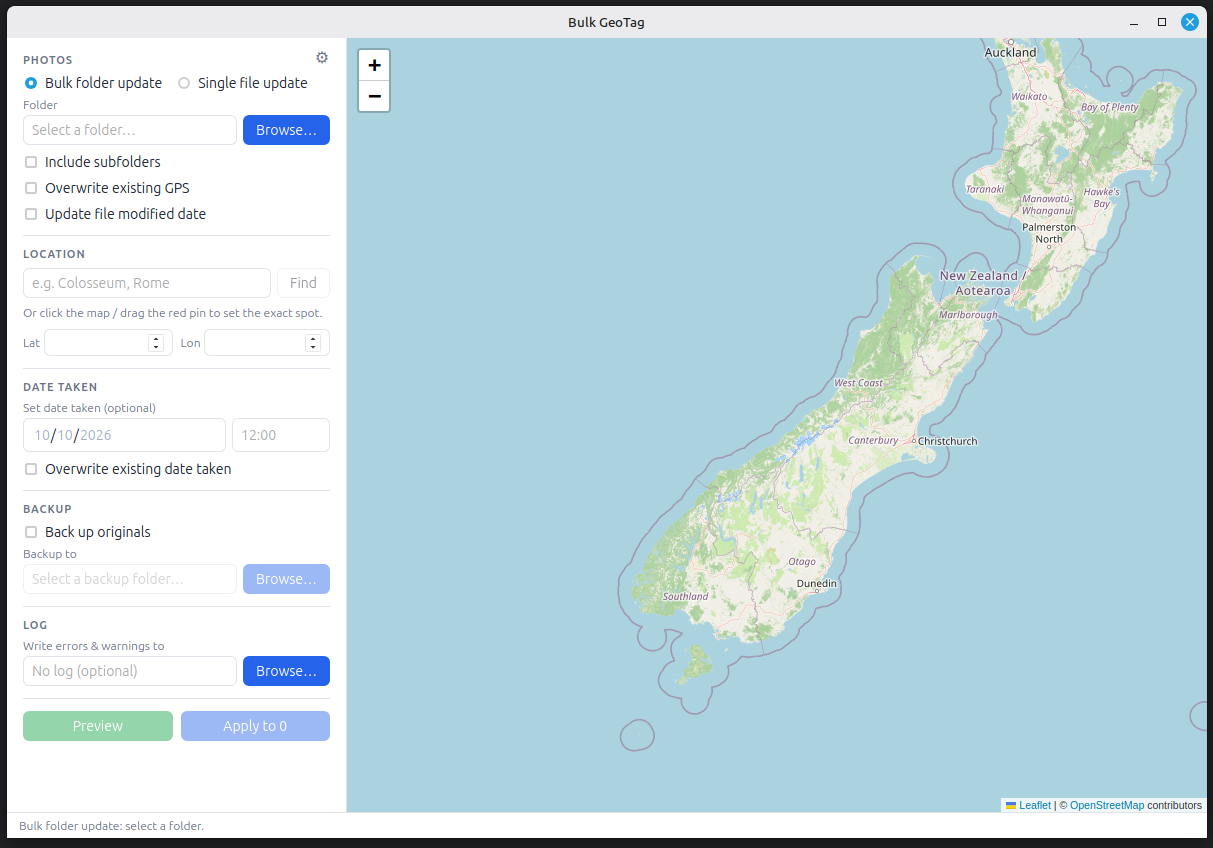
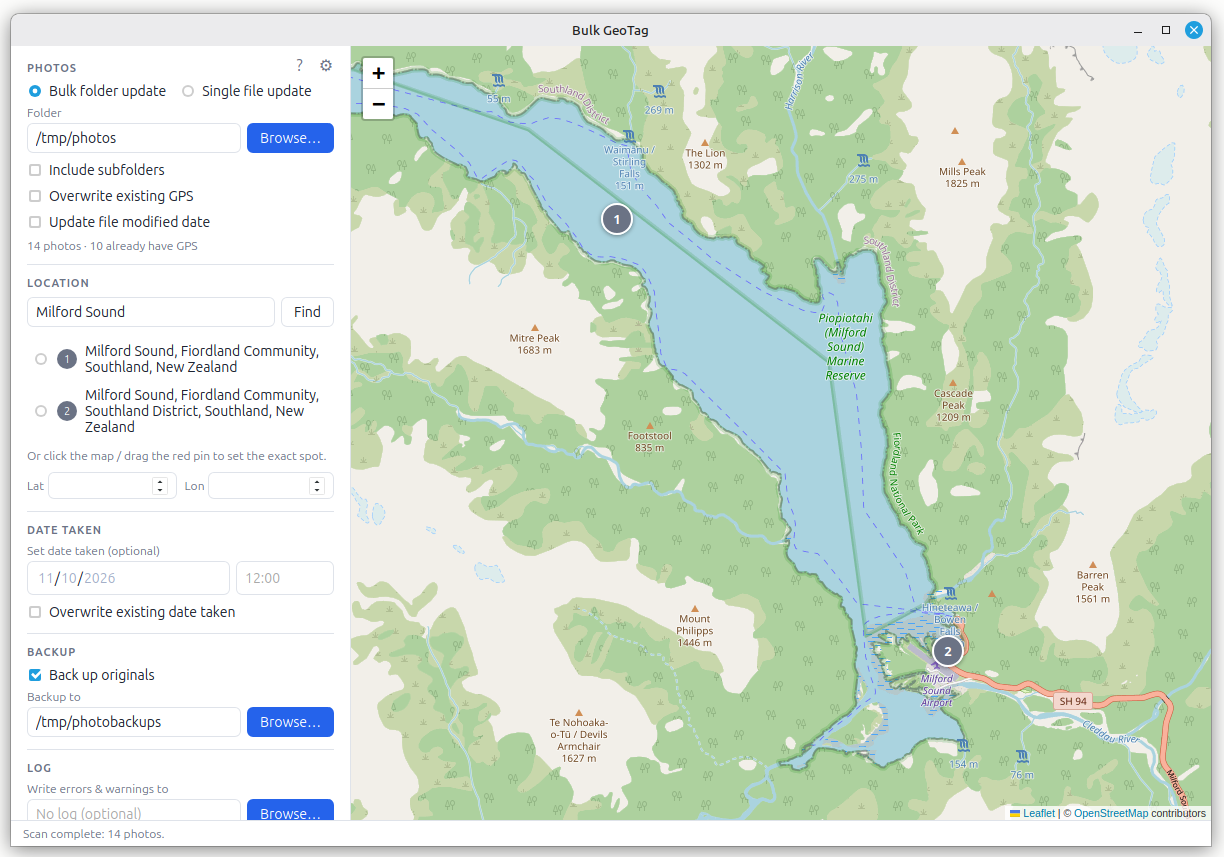
In-app help: User Guide inside the app (? button, F1), works offline
- Guide and its pictures built into the app (Vite ?raw / import.meta.glob)
- Screenshot replaces the text diagram in the User Guide; README screenshot updated
- npm run check:guide: Contents links and images
- CHANGELOG 1.3.0, README, ARCHITECTURE

diff --git a/src/routes/+page.svelte b/src/routes/+page.svelte
@@ -1,9 +1,13 @@
 <script lang="ts">
-  import { onMount, untrack } from "svelte";
+  import { onMount, untrack, tick } from "svelte";
   import { invoke } from "@tauri-apps/api/core";
   import { open, ask } from "@tauri-apps/plugin-dialog";
   import { listen } from "@tauri-apps/api/event";
-  import { revealItemInDir } from "@tauri-apps/plugin-opener";
+  import { revealItemInDir, openUrl } from "@tauri-apps/plugin-opener";
+  import { getVersion } from "@tauri-apps/api/app";
+  import { Marked } from "marked";
+  import { gfmHeadingId } from "marked-gfm-heading-id";
+  import guideMd from "../../docs/USER_GUIDE.md?raw";
   import "leaflet/dist/leaflet.css";
   import type { Map as LMap, Marker } from "leaflet";
 
@@ -598,17 +602,82 @@
     }
   }
 
+  // ---------- ? Help: the User Guide, built into the app so it works offline ----------
+  const REPO_URL = "https://github.com/ZuluPilgrim/bulk-geotag";
+  /** Pictures in docs/images/, built into the app so the guide's images also show offline. */
+  const guideImages = import.meta.glob("../../docs/images/*.{png,jpg,jpeg,webp}", {
+    eager: true,
+    query: "?url",
+    import: "default",
+  }) as Record<string, string>;
+  /**
+   * docs/USER_GUIDE.md as HTML. Headings get GitHub-style ids so the Contents links work, and
+   * image links like images/screenshot.png are pointed at the built-in copies above.
+   */
+  const guideHtml = new Marked(gfmHeadingId(), {
+    walkTokens(token) {
+      if (token.type === "image" && !/^https?:/.test(token.href)) {
+        token.href = guideImages[`../../docs/${token.href}`] ?? token.href;
+      }
+    },
+  }).parse(guideMd, { async: false }) as string;
+
+  let helpOpen = $state(false);
+  let helpBody = $state<HTMLElement | null>(null);
+  let appVersion = $state("");
+
+  /** Open Help at the top, or at one section's heading id (e.g. "file-dates-and-sync-tools"). */
+  async function openHelp(anchor?: string) {
+    helpOpen = true;
+    if (!appVersion) appVersion = await getVersion().catch(() => "");
+    await tick();
+    const target = anchor ? helpBody?.querySelector(`#${CSS.escape(anchor)}`) : null;
+    if (target) target.scrollIntoView();
+    else helpBody?.scrollTo(0, 0);
+  }
+
+  /** Links inside the guide: #anchors scroll within Help; anything else opens in the system browser. */
+  function onHelpClick(e: MouseEvent) {
+    const a = (e.target as HTMLElement).closest("a");
+    if (!a) return;
+    e.preventDefault();
+    const href = a.getAttribute("href") ?? "";
+    if (href.startsWith("#")) {
+      helpBody
+        ?.querySelector(`#${CSS.escape(decodeURIComponent(href.slice(1)))}`)
+        ?.scrollIntoView({ behavior: "smooth", block: "start" });
+    } else {
+      // Relative links (e.g. ARCHITECTURE.md) point at the docs folder on GitHub.
+      const url = /^(https?:|mailto:)/.test(href) ? href : `${REPO_URL}/blob/main/docs/${href}`;
+      openUrl(url).catch((err) => (status = `Could not open link: ${err}`));
+    }
+  }
+
+  /** Esc closes the top dialog (Help, then Settings); F1 opens Help. */
+  function onKey(e: KeyboardEvent) {
+    if (e.key === "Escape") {
+      if (helpOpen) helpOpen = false;
+      else if (settingsOpen) settingsOpen = false;
+    } else if (e.key === "F1") {
+      e.preventDefault();
+      openHelp();
+    }
+  }
+
   /** Last part of a path (works with / and \\ separators). */
   function fileName(path: string) {
     return path.split(/[\\/]/).pop() ?? path;
   }
 </script>
 
-<svelte:window onkeydown={(e) => e.key === "Escape" && settingsOpen && (settingsOpen = false)} />
+<svelte:window onkeydown={onKey} />
 
 <div class="app">
   <aside class="panel">
-    <button type="button" class="gear" onclick={openSettings} title="Settings" aria-label="Settings">⚙</button>
+    <div class="corner-buttons">
+      <button type="button" class="gear" onclick={() => openHelp()} title="Help (F1)" aria-label="Help">?</button>
+      <button type="button" class="gear" onclick={openSettings} title="Settings" aria-label="Settings">⚙</button>
+    </div>
     <section>
       <h2>Photos</h2>
       <div class="modes">
@@ -838,6 +907,24 @@
     </div>
   {/if}
 
+  {#if helpOpen}
+    <!-- svelte-ignore a11y_click_events_have_key_events, a11y_no_static_element_interactions -->
+    <div class="modal-backdrop" onclick={() => (helpOpen = false)}>
+      <!-- svelte-ignore a11y_click_events_have_key_events, a11y_no_static_element_interactions -->
+      <div class="modal help" role="dialog" aria-label="User Guide" tabindex="-1" onclick={(e) => e.stopPropagation()}>
+        <header>
+          <strong>User Guide</strong>
+          <span class="meta">Bulk GeoTag {appVersion}</span>
+          <button type="button" class="gear close" onclick={() => (helpOpen = false)} title="Close (Esc)" aria-label="Close">✕</button>
+        </header>
+        <!-- svelte-ignore a11y_click_events_have_key_events, a11y_no_static_element_interactions -->
+        <div class="help-body" bind:this={helpBody} onclick={onHelpClick}>
+          {@html guideHtml}
+        </div>
+      </div>
+    </div>
+  {/if}
+
   <footer class="status">
     {#if progress}
       <progress max={progress[1] || 1} value={progress[0]}></progress>
@@ -894,10 +981,14 @@
     overflow-y: auto;
     padding: 4px 16px 16px;
   }
-  .gear {
+  .corner-buttons {
     position: absolute;
     top: 8px;
     right: 10px;
+    display: flex;
+    gap: 2px;
+  }
+  .gear {
     padding: 2px 7px;
     font-size: 16px;
     line-height: 1.2;
@@ -927,6 +1018,108 @@
     border-radius: 10px;
     padding: 16px 18px;
     box-shadow: 0 10px 40px rgba(0, 0, 0, 0.3);
+  }
+  /* ---------- ? Help ---------- */
+  .modal.help {
+    width: min(860px, calc(100vw - 32px));
+    height: calc(100vh - 48px);
+    max-height: none;
+    display: flex;
+    flex-direction: column;
+    padding: 0;
+    overflow: hidden;
+  }
+  .modal.help header {
+    display: flex;
+    align-items: center;
+    gap: 10px;
+    margin: 0;
+    padding: 10px 12px 10px 20px;
+    border-bottom: 1px solid var(--border);
+  }
+  .help header .close {
+    margin-left: auto;
+  }
+  .help-body {
+    flex: 1;
+    overflow-y: auto;
+    padding: 4px 24px 24px;
+    font-size: 14px;
+    line-height: 1.5;
+  }
+  .help-body :global(h1) {
+    font-size: 20px;
+  }
+  .help-body :global(h2) {
+    font-size: 17px;
+    margin-top: 22px;
+    padding-bottom: 4px;
+    border-bottom: 1px solid var(--border);
+  }
+  .help-body :global(h3) {
+    font-size: 15px;
+    margin-top: 18px;
+  }
+  .help-body :global(h4) {
+    font-size: 14px;
+    margin-top: 14px;
+  }
+  .help-body :global(:is(h1, h2, h3, h4)) {
+    scroll-margin-top: 8px;
+  }
+  .help-body :global(a) {
+    color: var(--accent);
+  }
+  .help-body :global(table) {
+    border-collapse: collapse;
+    width: 100%;
+    margin: 8px 0 14px;
+    font-size: 13px;
+  }
+  .help-body :global(:is(th, td)) {
+    border: 1px solid var(--border);
+    padding: 4px 8px;
+    text-align: left;
+    vertical-align: top;
+  }
+  .help-body :global(th) {
+    background: color-mix(in srgb, var(--muted) 10%, transparent);
+  }
+  .help-body :global(code) {
+    font-family: ui-monospace, "DejaVu Sans Mono", Menlo, Consolas, monospace;
+    font-size: 0.92em;
+  }
+  .help-body :global(:not(pre) > code) {
+    padding: 1px 4px;
+    border-radius: 4px;
+    background: color-mix(in srgb, var(--muted) 12%, transparent);
+  }
+  .help-body :global(pre) {
+    overflow-x: auto;
+    padding: 8px 10px;
+    border-radius: 6px;
+    font-size: 12px;
+    line-height: 1.25;
+    background: color-mix(in srgb, var(--muted) 10%, transparent);
+  }
+  .help-body :global(img) {
+    display: block;
+    max-width: 100%;
+    height: auto;
+    margin: 10px 0;
+    border: 1px solid var(--border);
+    border-radius: 6px;
+  }
+  .help-body :global(blockquote) {
+    margin: 8px 0;
+    padding: 2px 12px;
+    border-left: 3px solid var(--border);
+    color: var(--muted);
+  }
+  .help-body :global(hr) {
+    border: none;
+    border-top: 1px solid var(--border);
+    margin: 18px 0;
   }
   .modal header {
     margin-bottom: 6px;

diff --git a/docs/ARCHITECTURE.md b/docs/ARCHITECTURE.md
@@ -43,7 +43,8 @@ flowchart LR
 bulk-geotag/
 ├── README.md
 ├── docs/
-│   ├── USER_GUIDE.md
+│   ├── USER_GUIDE.md            ← also shown in the app by ? Help
+│   ├── images/                  ← pictures for the docs (built into the app too)
 │   └── ARCHITECTURE.md          ← this file
 ├── package.json                 ← frontend deps + scripts (npm run tauri dev)
 ├── svelte.config.js             ← adapter-static; css: "injected" (see Gotchas)
@@ -174,6 +175,7 @@ on any failure: delete temp, original untouched
 - **Dialogs:** `@tauri-apps/plugin-dialog`, with `open({directory:true})` for folders and `ask()` for the Apply confirmation.
 - **Mode:** `mode` is `"bulk" | "single"`; `root` is the folder or the file. In single mode, `inspect_photo` fills `details`, pre-fills lat/lon and date, and `atCurrent` (pin within 1e-5° of the photo's GPS) drives the pin colour: grey `at-current` while there, red once moved, plus a non-interactive grey `currentMarker` at the photo's GPS.
 - **Settings dialog:** ⚙ button (`.gear`) opens a modal; `get_settings` fills a `draft`, Save calls `save_settings` and shows Rust's validation message on failure. *Show in folder* uses `revealItemInDir` from `@tauri-apps/plugin-opener` (allowed by `opener:default`).
+- **? Help:** `docs/USER_GUIDE.md` is imported with Vite's `?raw`, so its text is built into the app at build time (no Tauri resource, no Rust command, works offline). `marked` with `marked-gfm-heading-id` turns it into HTML once, with GitHub-style heading ids so the guide's Contents links match. Pictures in `docs/images/` are imported with `import.meta.glob(…, { query: "?url" })`, and a `walkTokens` hook points the guide's `images/…` links at the built-in copies. The HTML is shown with `{@html}` (safe: it comes only from our own file at build time) in a `.modal.help`; its styles use `.help-body :global(…)`. One click handler on the body scrolls `#anchor` links within the panel and opens anything else with `openUrl` (relative links go to the file on GitHub). `?` (`.corner-buttons`, next to ⚙) or F1 opens it; Esc closes Help first, then Settings.
 - **Remembered settings:** `localStorage` key `bulk-geotag.settings.v1` holds the mode, folder, backup on/off, backup folder, log folder and map centre/zoom. Every access is wrapped in try/catch.
 
 ## Dependencies
@@ -189,12 +191,14 @@ on any failure: delete temp, original untouched
 | `chrono` | Local time for log names and lines |
 | `base64` | Preview images for single-file mode |
 | `leaflet` | Map |
+| `marked`, `marked-gfm-heading-id` | User Guide → HTML for ? Help |
 | `svelte`, `@sveltejs/kit`, `adapter-static`, `vite` | Frontend |
 
 ## Testing
 
 ```bash
 npm run check                       # svelte-check + TypeScript
+npm run check:guide                 # User Guide: Contents links and images
 cd src-tauri && cargo test --lib    # 15 unit tests
 ```
 
@@ -242,6 +246,7 @@ ls -la --time-style=+'%F %T'
 - **little_exif needs the file extension** to detect the format, which is why the temp file keeps it.
 - **TIFFs without `XResolution`** are refused by little_exif. Real camera and scanner TIFFs have it.
 - **Folder chooser button label:** rfd (behind the dialog plugin) doesn't pass an accept label to the xdg portal, so Linux shows "Open". Titles say "Select …".
+- **Renaming a User Guide heading** changes its id and breaks Contents links (and any `openHelp("…")` call) that point at it. Run `npm run check:guide` after editing the guide.
 - **Separate storage:** the dev server (`http://localhost:1420`) and the bundled app have different web-view origins, so their `localStorage` (remembered settings) is separate.
 
 ## Ideas / roadmap

diff --git a/docs/USER_GUIDE.md b/docs/USER_GUIDE.md
@@ -22,33 +22,12 @@ Bulk GeoTag adds a GPS location and/or a date taken to every photo in a folder. 
 
 ## The screen at a glance
 
-```
-┌─────────────────────────┬─────────────────────────────────────┐
-│ PHOTOS               ⚙  │                                     │
-│  ◉ Bulk  ○ Single file  │                                     │
-│  Folder  [ … ][Browse…] │                                     │
-│  ☐ Include subfolders   │                                     │
-│  ☐ Overwrite existing   │              Map                    │
-│  ☐ Update file modified │                                     │
-│  57 photos · 12 have GPS│   numbered circles = search results │
-│ LOCATION                │   red pin = the spot to be written  │
-│  [ place name ][Find]   │                                     │
-│  ◉ 1 Result one         │                                     │
-│  Lat [   ]  Lon [   ] ✕ │                                     │
-│ DATE TAKEN              │                                     │
-│  [date 📅] [time  ]  ✕  │                                     │
-│  ☐ Overwrite existing   │                                     │
-│ BACKUP                  │                                     │
-│  ☐ Back up originals    │                                     │
-│  Backup to [ … ][Browse]│                                     │
-│ LOG                     │                                     │
-│  Write to [ … ][Browse] │                                     │
-│ [Preview] [Apply to 45] │                                     │
-├─────────────────────────┴─────────────────────────────────────┤
-│ Status bar: progress, results, log file name                  │
-└───────────────────────────────────────────────────────────────┘
-```
+![Bulk GeoTag: photo folder, place search, date taken, backup and log on the left; map with the search results on the right](images/screenshot.png)
 
+- **Left panel**, top to bottom: **Photos** (mode, folder, scope options and the photo count), **Location** (place search and its results, Lat/Lon), **Date taken**, **Backup**, **Log**, then **Preview** and **Apply** at the bottom (scroll down if the window is short).
+- **?** and **⚙** at the top-right of the left panel open this guide (or press **F1**) and the [Settings](#settings-and-place-search).
+- **Map** on the right: numbered circles are search results, and the red pin is the spot that will be written.
+- **Status bar** along the bottom: progress, results and the log file name.
 - **Blue** buttons pick folders or apply changes. **Green** Preview is a safe dry run.
 - Buttons fade out when they can't be used yet. Apply needs a folder, a location and/or a date taken, and a backup folder if backup is ticked.
 

diff --git a/README.md b/README.md
@@ -4,7 +4,7 @@ A desktop app for adding GPS location and/or a date taken to a whole folder of p
 
 Select a folder, type a place name (or click the map), confirm the spot, optionally set a date taken, and Bulk GeoTag writes them into every photo's EXIF data. It can back up the originals first and log anything it had to skip.
 
-![Bulk GeoTag: folder and location settings on the left, map with the selected spot on the right](docs/images/screenshot.png)
+![Bulk GeoTag: folder, location and backup settings on the left, map with place-search results on the right](docs/images/screenshot.png)
 
 Built with [Tauri 2](https://tauri.app) (Rust) and [Svelte](https://svelte.dev), with maps and place search from [OpenStreetMap](https://www.openstreetmap.org).
 
@@ -18,6 +18,7 @@ Built with [Tauri 2](https://tauri.app) (Rust) and [Svelte](https://svelte.dev),
 - **Safe writing**: each photo is written to a temporary copy, checked, and only then swapped in. Camera data (make, model, orientation) is kept, and the date taken is only changed if you set one. The EXIF *Modified* stamp is set to the time of the change. The file's modified date is kept by default. Tick *Update file modified date* to change it, so OneDrive and other sync tools upload the tagged photos.
 - **Optional backups**: originals are copied first into a backup folder that mirrors their full path.
 - **Optional CSV log**: errors and warnings (skipped files, backup notices) go to a timestamped log file.
+- **? Help**: the User Guide inside the app (or press F1), working offline.
 - **⚙ Settings**: contact email, Nominatim server, search language, results per search, clear the search cache.
 - **Remembers** the last mode, the photo, backup and log folders, and the map position.
 

diff --git a/CHANGELOG.md b/CHANGELOG.md
@@ -3,6 +3,16 @@
 All notable changes to Bulk GeoTag. Dates are NZ local time.
 Format based on [Keep a Changelog](https://keepachangelog.com/); versions follow [Semantic Versioning](https://semver.org/).
 
+## [1.3.0] - 2026-10-11
+
+### Added
+- **In-app help:** the User Guide opens inside the app with the **?** button (next to ⚙) or **F1**. It works offline: the guide and its pictures are built into the app. Contents links jump within the guide; web links open in the system browser. Esc, ✕ or clicking outside closes it.
+- Screenshot in the User Guide's *The screen at a glance*, replacing the text diagram. The README uses the same, updated screenshot.
+- `npm run check:guide`: checks that every Contents link in the User Guide matches a heading and every image exists.
+
+### Changed
+- User Guide: *File dates and sync tools* now explains how photo apps order their timeline (EXIF date taken) and how OneDrive and other sync tools notice changes (file modified date), with a *Which to use* table.
+
 ## [1.2.0] - 2026-10-10
 
 ### Added
